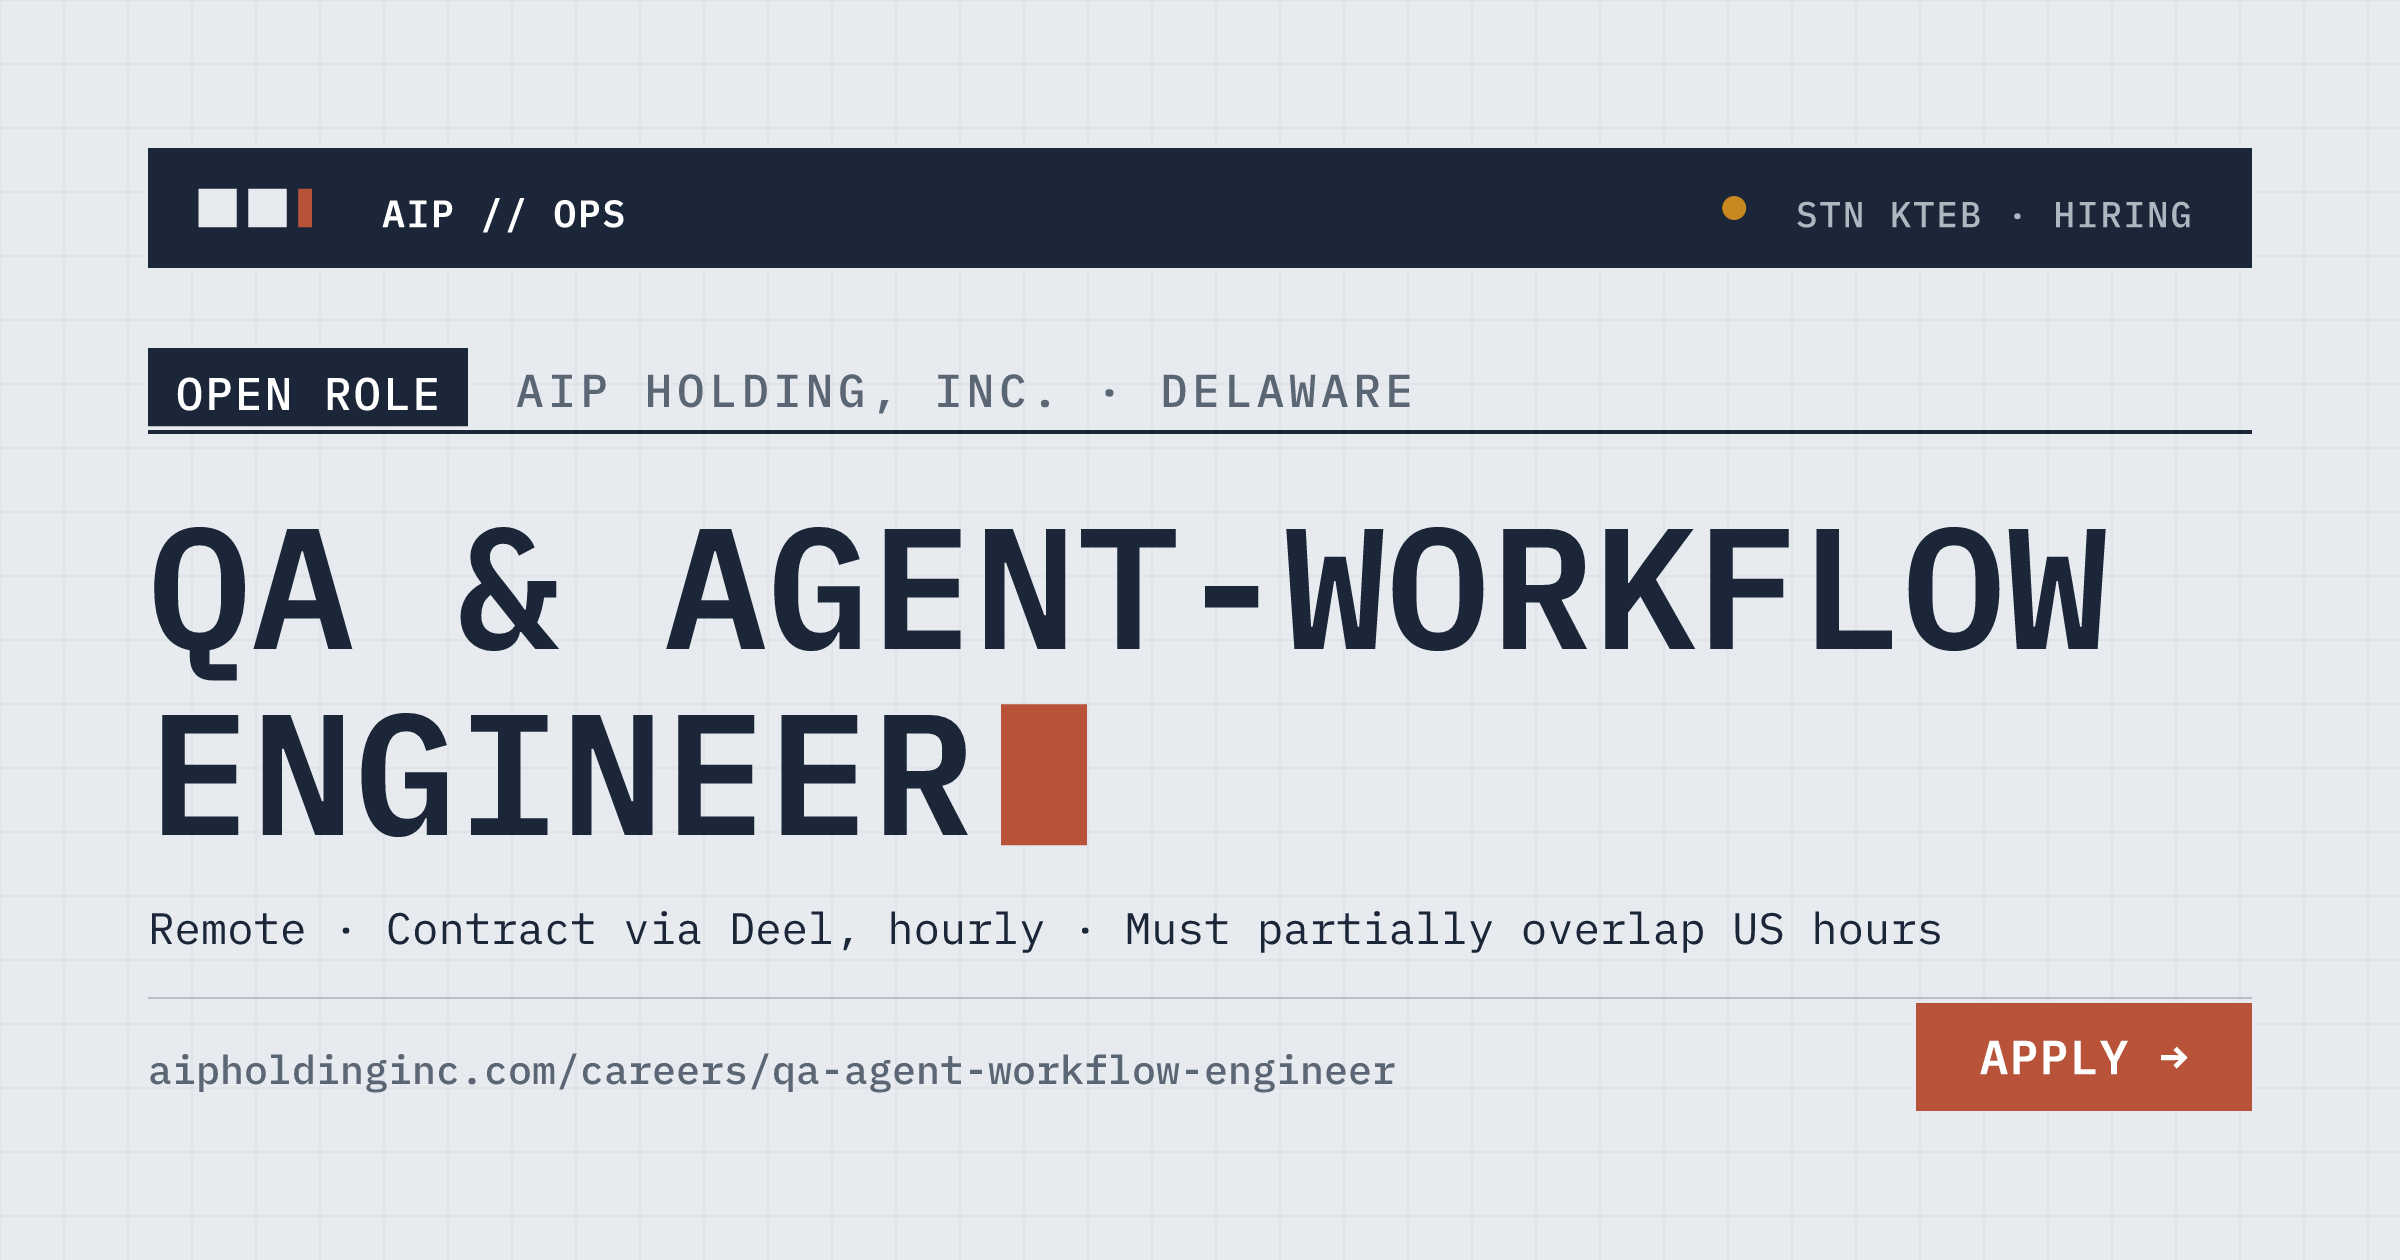
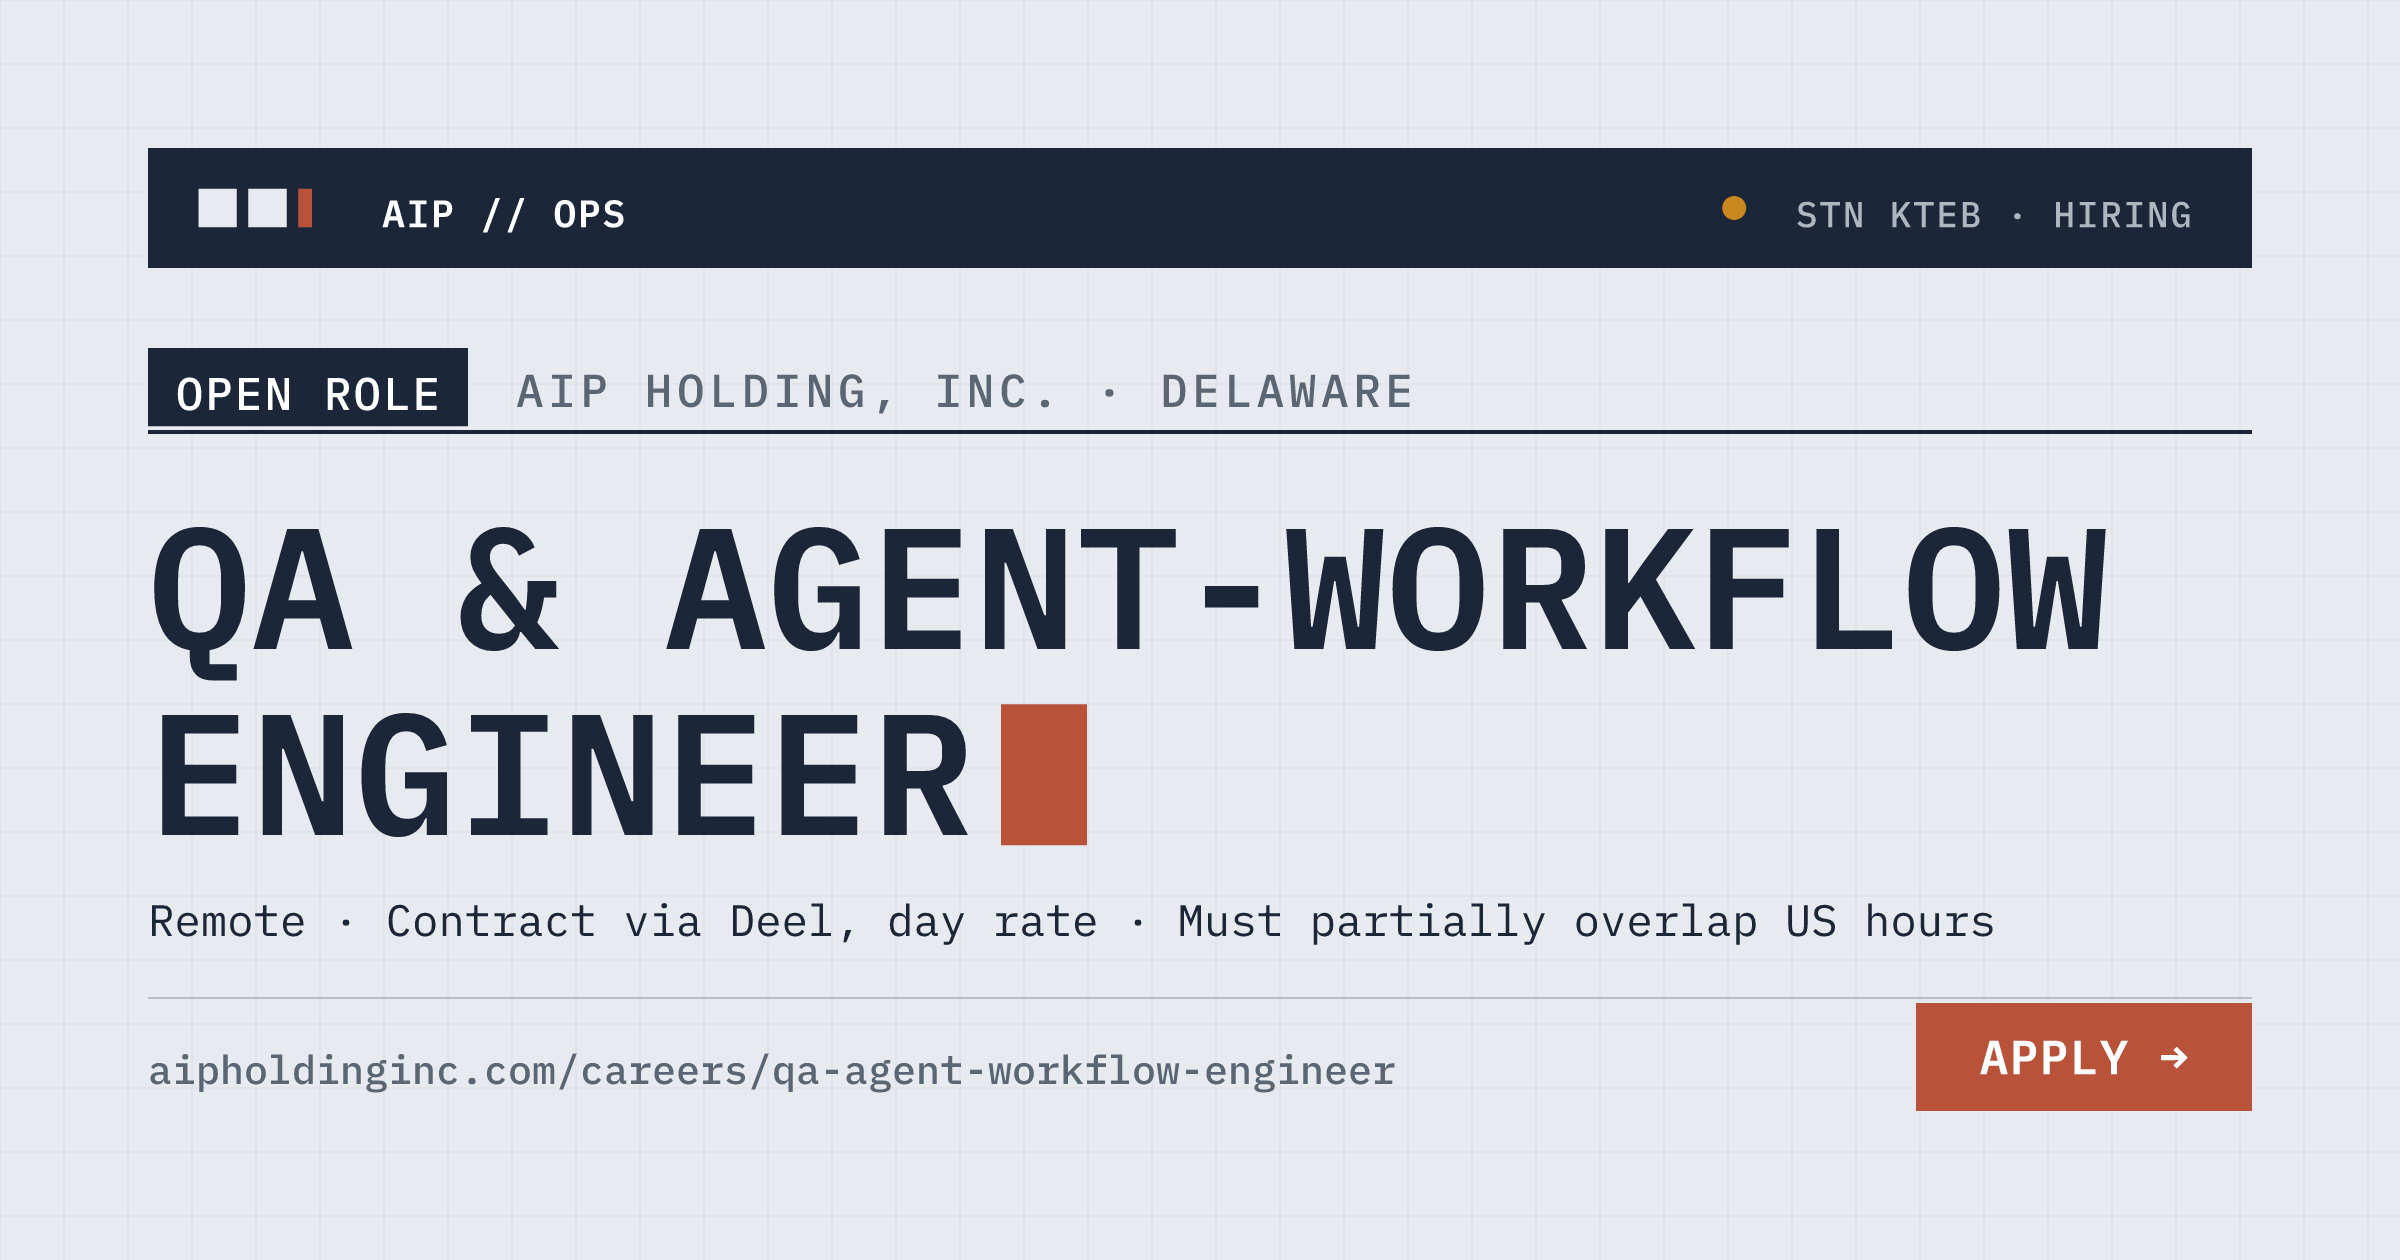
QA role: switch to day rate, at least half-time (ideally full-time)
- Day rate instead of hourly across copy, chips, OG description and OG image
- Commitment is now at-least-half-time / full-time; drop the part-time carve-out

Claude-Session: https://claude.ai/code/session_014TvvxmiZ1xPDC7Fe9rTGtN

Changed region(s): [[0.375, 0.7119, 0.8438, 0.7429], [0.1562, 0.7119, 0.3438, 0.7429], [0.0625, 0.7119, 0.125, 0.7429]]

diff --git a/careers/qa-agent-workflow-engineer.html b/careers/qa-agent-workflow-engineer.html
@@ -15,7 +15,7 @@
 <meta property="og:site_name" content="AIP Holding, Inc." />
 <meta property="og:url" content="https://aipholdinginc.com/careers/qa-agent-workflow-engineer" />
 <meta property="og:title" content="QA &amp; Agent-Workflow Engineer · AIP Holding, Inc." />
-<meta property="og:description" content="Remote · Contract via Deel, hourly. Own the agent harness, QA and release for an agent-written codebase heading to launch. Production Claude Code experience required; personal-project use is not a fit." />
+<meta property="og:description" content="Remote · Contract via Deel, day rate, half-time to full-time. Own the agent harness, QA and release for an agent-written codebase heading to launch. Production Claude Code experience required; personal-project use is not a fit." />
 <meta property="og:image" content="https://aipholdinginc.com/og-careers-qa.png" />
 <meta property="og:image:secure_url" content="https://aipholdinginc.com/og-careers-qa.png" />
 <meta property="og:image:type" content="image/png" />
@@ -26,7 +26,7 @@
 
 <meta name="twitter:card" content="summary_large_image" />
 <meta name="twitter:title" content="QA &amp; Agent-Workflow Engineer · AIP Holding, Inc." />
-<meta name="twitter:description" content="Remote · Contract via Deel, hourly. Own the agent harness, QA and release for an agent-written codebase. Production Claude Code experience required." />
+<meta name="twitter:description" content="Remote · Contract via Deel, day rate, half-time to full-time. Own the agent harness, QA and release for an agent-written codebase. Production Claude Code experience required." />
 <meta name="twitter:image" content="https://aipholdinginc.com/og-careers-qa.png" />
 <meta name="twitter:image:alt" content="QA &amp; Agent-Workflow Engineer. AIP Holding, Inc." />
 
@@ -285,7 +285,8 @@
 
         <div class="chips">
           <span class="chip"><span>Remote</span></span>
-          <span class="chip"><span>Contract via Deel, hourly, invoiced weekly</span></span>
+          <span class="chip"><span>Contract via Deel, day rate</span></span>
+          <span class="chip"><span>Half-time to full-time</span></span>
           <span class="chip"><span>Must partially overlap US hours</span></span>
         </div>
 
@@ -378,8 +379,8 @@
         <section class="block">
           <h2>Shape of the engagement</h2>
           <ul>
-            <li>Contract through Deel, hourly, invoiced weekly, paid on time</li>
-            <li>Full-time, or as close as you can get, through the January launch. What happens after, we decide together in December. Part-time makes the build strand impossible, so say so if that's you and we'll talk about a narrower QA-and-harness scope</li>
+            <li>Contract through Deel, day rate, invoiced weekly, paid on time</li>
+            <li>At least half-time, and full-time if you can, through the January launch. What happens after, we decide together in December. Below half-time doesn't work: there's too much to hold across QA, the harness and the night shift.</li>
             <li>Mutual NDA before we share the repo</li>
             <li>Scoped access: staging, the repo, Linear. Production stays with the founders</li>
             <li>Start: as soon as we agree terms. We want you in the seat by mid-October</li>
@@ -393,7 +394,7 @@
             <li>A founder who runs twenty sessions a day and will argue with you about every rule, then change his mind when you're right</li>
             <li>You're early on something built to matter: small team, real product, a launch on the calendar, and every intention of being very good at this</li>
             <li>You get to sharpen at the frontier of how software and QA actually get done now, and come out fluent in it before the market is</li>
-            <li>Paid properly from day one. Hourly, contracted, invoiced weekly. No unpaid founder energy, nothing deferred</li>
+            <li>Paid properly from day one. Day rate, contracted, invoiced weekly. No unpaid founder energy, nothing deferred</li>
             <li>Real flexibility on hours, built around gates and suites rather than presence</li>
           </ul>
         </section>
